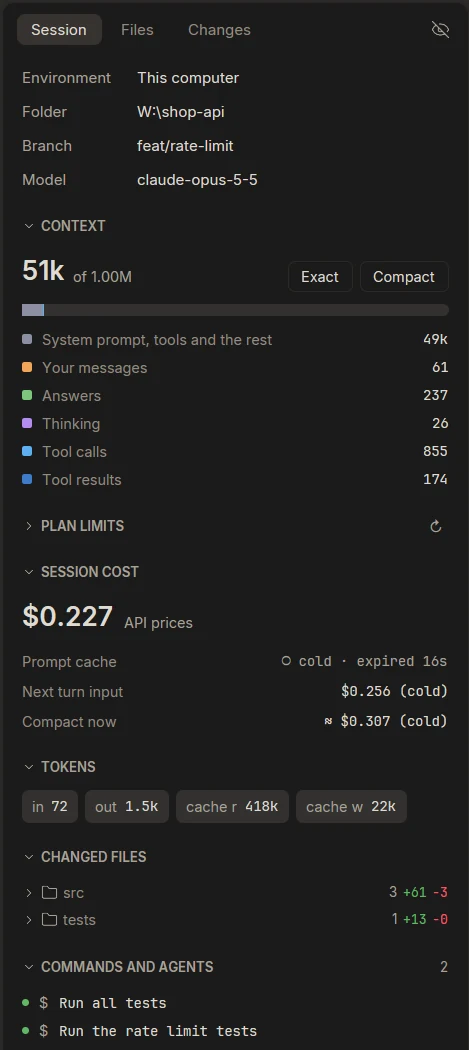
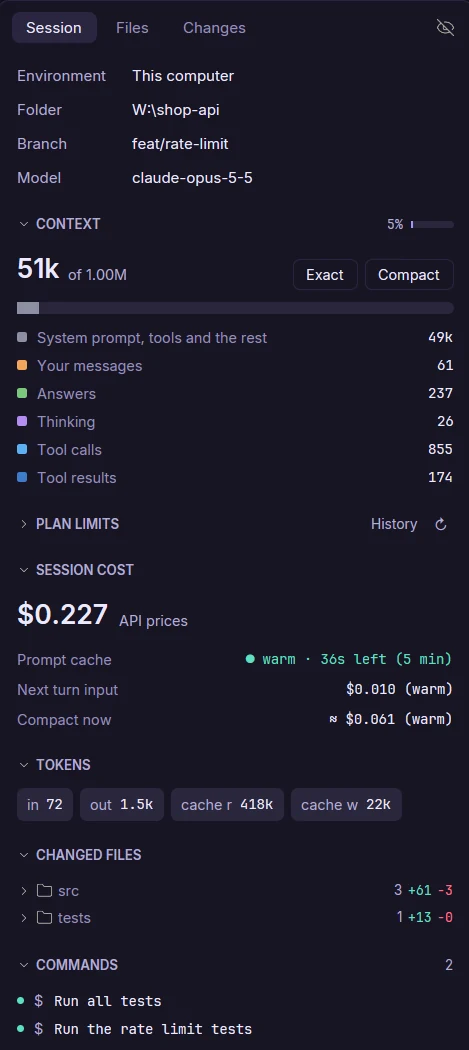
Bowyer: new feature screenshots

diff --git a/bowyer/index.html b/bowyer/index.html
@@ -139,7 +139,7 @@
         </ul>
       </div>
       <figure class="plate reveal">
-        <div class="fit"><img src="/assets/img/bowyer/tree.webp" width="482" height="790" alt="The session tree: This computer, then Claude Code, OpenCode and Codex, then projects; under shop-api a Claude Code session with three agent sessions nested under it" decoding="async"></div>
+        <div class="fit"><img src="/assets/img/bowyer/tree.webp" width="482" height="790" alt="The session tree in the Nightfall theme: This computer, then Claude Code, OpenCode and Codex, then projects, each session with its agent's pixel critter; under shop-api a Claude Code session with three agent sessions nested under it" decoding="async"></div>
         <figcaption><b>Tree</b> Agents under their lead, live state on the right.</figcaption>
       </figure>
     </div>
@@ -152,7 +152,7 @@
         <p>Send another prompt while a turn runs and it goes next. The view stays where you read while new text arrives. A prompt that never reached the model can be deleted, and the session goes on from the answer before it.</p>
       </div>
       <figure class="plate reveal">
-        <div class="fit"><img src="/assets/img/bowyer/chat-light.webp" width="1100" height="830" alt="A conversation in the Light theme with folded thinking, a one-line summary of seven tool calls, highlighted Rust code and a follow-up turn" decoding="async"></div>
+        <div class="fit"><img src="/assets/img/bowyer/chat-light.webp" width="1140" height="866" alt="A conversation in the Light theme with folded thinking, a one-line summary of seven tool calls, highlighted Rust code and a follow-up turn" decoding="async"></div>
         <figcaption><b>Conversation</b> Seven tool calls in one line, in the Light theme.</figcaption>
       </figure>
     </div>
@@ -164,7 +164,7 @@
         <p>The plan's five-hour and weekly limits, or an API account's spending this month. Token totals, cost at API prices per call, the price of the next turn and of a compaction at the current cache state, and how long the prompt cache stays warm. Every file the session changed, as a tree, and every command and sub-agent it ran, the latest first. Each section folds by its title.</p>
       </div>
       <figure class="plate reveal">
-        <div class="fit"><img src="/assets/img/bowyer/session.webp" width="469" height="1050" alt="The Session panel with folding sections: context of 51k tokens out of 1M split into six parts, plan limits folded, session cost of $0.227, token totals, changed files and commands" decoding="async"></div>
+        <div class="fit"><img src="/assets/img/bowyer/session.webp" width="469" height="1050" alt="The Session panel in the Nightfall theme with folding sections: context of 51k tokens out of 1M split into six parts, plan limits folded, session cost of $0.227, token totals, changed files and commands" decoding="async"></div>
         <figcaption><b>Session</b> Context, limits, cost and cache, changed files.</figcaption>
       </figure>
     </div>
@@ -176,7 +176,7 @@
         <p>Built-in terminals (<kbd>Ctrl+`</kbd>) open as tabs under the conversation, in the session's folder, locally or on the SSH host, so resuming a session never starts with hunting for the right window. Each session keeps its own terminals, and on Windows a list opens PowerShell, Command Prompt, Git Bash or WSL. Claude Code sessions connect to the IDE that has their folder open.</p>
       </div>
       <figure class="plate reveal">
-        <div class="fit"><img src="/assets/img/bowyer/diff.webp" width="1100" height="832" alt="A diff of checkout.rs from the Changes tab, with Stage and Discard for the hunk" decoding="async"></div>
+        <div class="fit"><img src="/assets/img/bowyer/diff.webp" width="1140" height="1176" alt="A diff of checkout.rs from the Changes tab in the Nightfall theme, with Stage and Discard for the hunk" decoding="async"></div>
         <figcaption><b>Changes</b> A hunk ready to stage or discard.</figcaption>
       </figure>
     </div>
